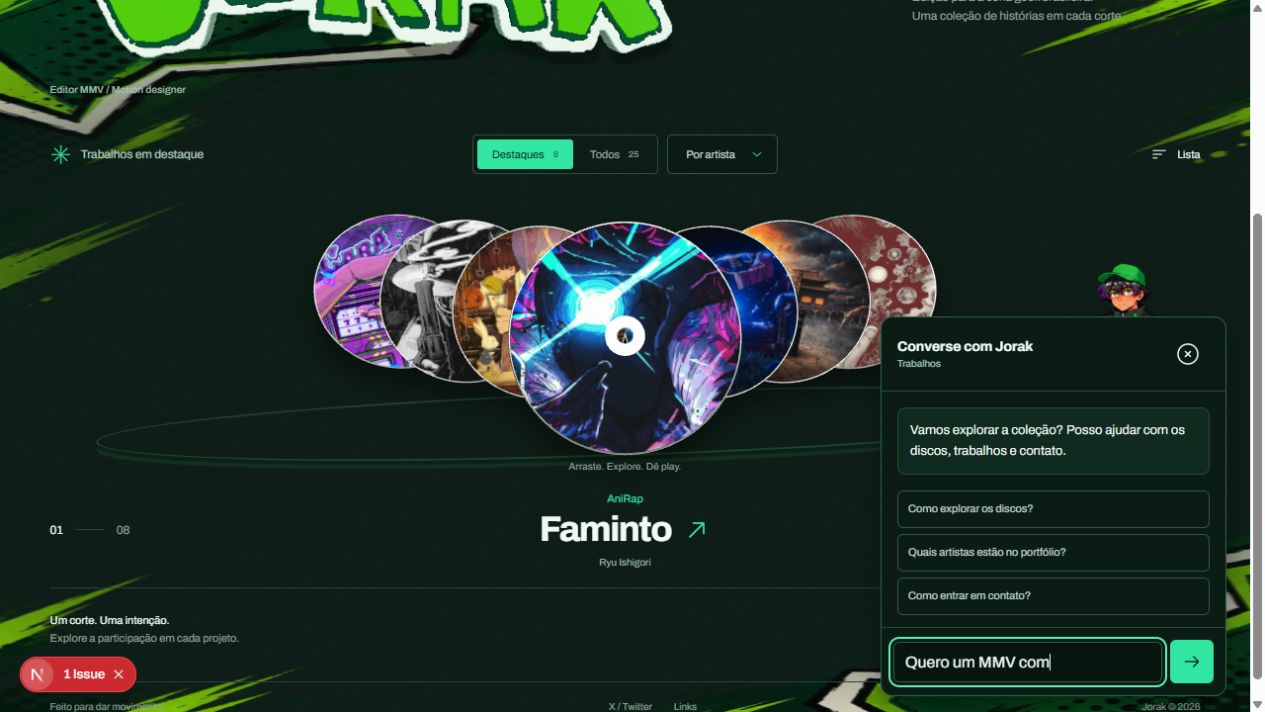
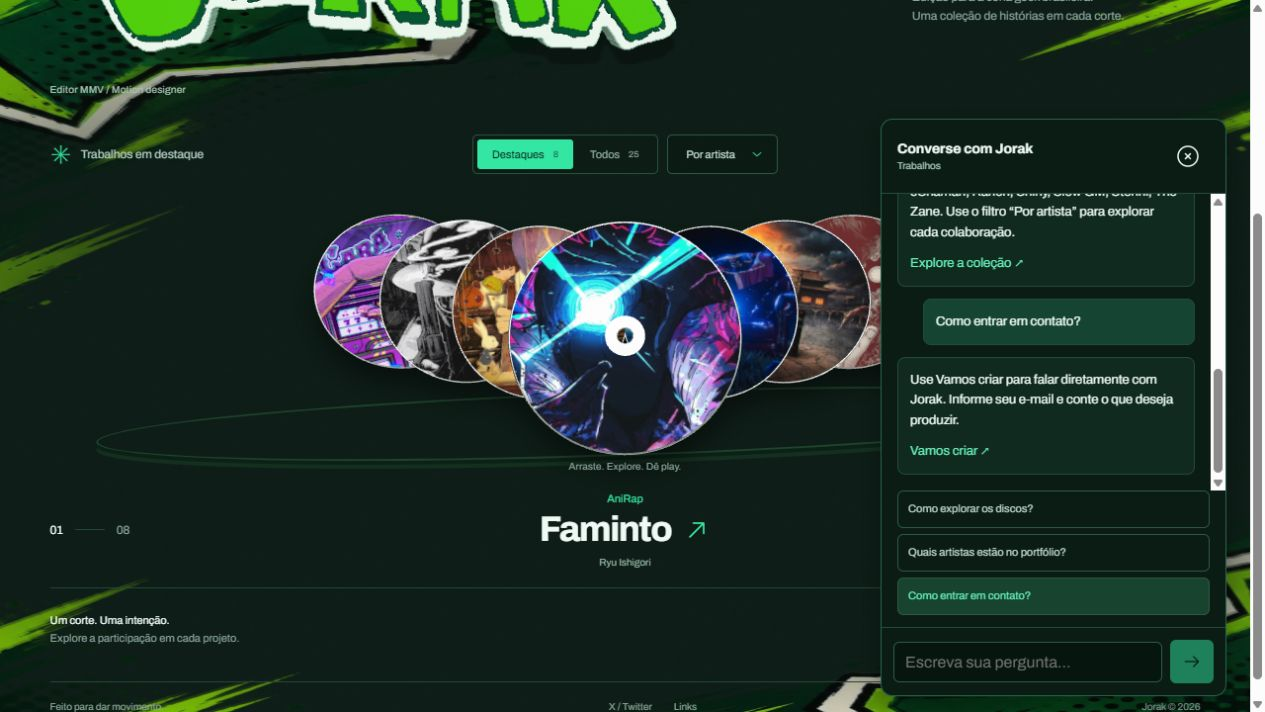
Document verified Netlify publication and public deployment checks

diff --git a/docs/ENTREGA-FINAL.md b/docs/ENTREGA-FINAL.md
@@ -26,10 +26,12 @@ Componentes de FAQ, prévia e projeto carregam sob demanda. Uma prévia por vez;
 
 Build Next.js 16.3.8 aprovado. 31 testes passaram sem skips, incluindo exportação real, áudio e prévias. 74 verificações de contexto, FAQ e solicitações; 55 de APIs públicas. Conferência HTTP de 25 trabalhos, 104 URLs de mídia, 13 solicitações pagas e um download gratuito. Produção local conectada ao JJAURA respondeu às três perguntas da home, com proteção de origem mantida.
 
-Navegador: layouts em 320 × 640, 390 × 844 e 768 × 1024 sem overflow horizontal; FAQ e campos de 16 px conferidos. Emulação de largura não equivale a aparelhos reais nem testa o teclado virtual do sistema. Nenhum aparelho físico foi utilizado.
+Navegador: layouts em 320 × 640, 390 × 844, 768 × 1024 e 844 × 390 sem overflow horizontal; FAQ e campos de 16 px conferidos. Player de SOU DEUS, encerramento celestial, repetição e histórico voltar/avançar conferidos. Emulação de largura não equivale a aparelhos reais nem testa o teclado virtual do sistema. Nenhum aparelho físico foi utilizado. A indisponibilidade de WebGL e a troca da preferência do sistema não foram simuladas no navegador disponível; as alternativas foram revisadas no código. Um erro isolado de MutationObserver apareceu na primeira abertura pública, sem origem indicada pela ferramenta, e não se repetiu ao recarregar; não foi possível atribuí-lo conclusivamente.
 
 JJAURA mantém 25 publicados, 32 arquivados e 104 arquivos privados, totalizando 820.726.609 bytes. Credenciais e arquivos de trabalho permanecem fora do Git. A publicação usa Next.js com servidor e armazenamento persistente; não depende da pasta local ignorada.
 
 ## Publicação
 
-Novo projeto Netlify em configuração. O endereço público e a verificação após a implantação serão registrados antes da entrega. A publicação beta permanece preservada.
+Novo endereço público: https://jorak-portfolio-final.netlify.app/ . Projeto conectado à branch `codex/portfolio-finalizacao`, Next.js Runtime 5.16.1, com função de servidor e variáveis privadas restritas à produção. Usa o modo Supabase padrão de produção; a classificação equivocada da configuração comum como segredo foi removida sem desativar a varredura de credenciais. A publicação beta permanece preservada.
+
+Verificação no endereço público: oito rotas principais e de solicitação responderam 200; os três projetos, clipes, prévias e posters responderam corretamente, incluindo Range 206. Os três trabalhos arquivados responderam 404. As três perguntas da home retornaram respostas, e origem externa foi recusada. Contato geral e interesse no Simo Hayha gravaram dois registros identificados de teste no JJAURA, conferidos no banco e removidos por seus IDs exatos após a validação. O selo opcional do Netlify foi desativado porque cobria o campo do FAQ.
